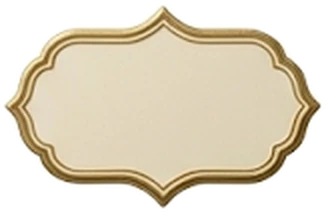
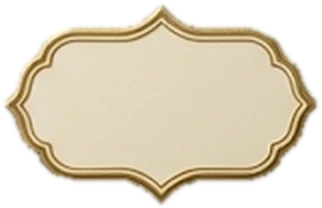
v249: lichte rand rond de boog, knop en Nalain weggehaald
Claude-Session: https://claude.ai/code/session_01JY69MYnyVwHSyB4ZAgfkvk

Changed region(s): [[0.0, 0.0288, 0.9938, 0.9808]]

diff --git a/sw.js b/sw.js
@@ -1,6 +1,6 @@
 /* Islam Quiz – service worker (netwerk eerst, cache als terugval)
    Verhoog CACHE_VERSION bij elke release. Zo zien bezoekers altijd meteen de nieuwste versie. */
-const CACHE_VERSION = "islam-quiz-v248";
+const CACHE_VERSION = "islam-quiz-v249";
 const QURAN_CACHE = "iq-quran-1";   // Koran-tekst en -lettertype: blijven bewaard tussen versies (offline lezen)
 const PRECACHE = [];
 
